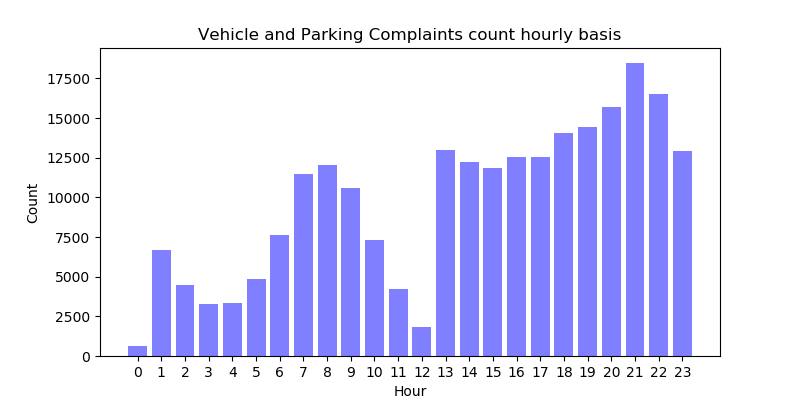
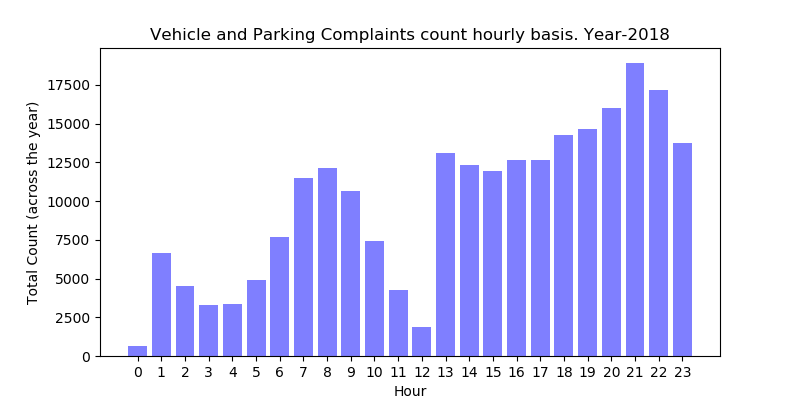
DateFormat Update with new results

diff --git a/311_Service_Request_Analysis/src/StasticalAnalysis/Analysis.py b/311_Service_Request_Analysis/src/StasticalAnalysis/Analysis.py
@@ -12,6 +12,7 @@ def complaint_type_analysis(complaint_type_df):
 def monthly_hourly_analysis(df_with_month_hour):
     # Insight 2 : Daily, Hourly, Monthly Analysis
     df_with_month_hour.cache()
+    creation_year = df_with_month_hour.select("Created_Date").take(1)[0].__getitem__("Created_Date")[6:10]
     df_with_month_hour = df_with_month_hour.withColumn("Creation_Hour",
                                                        df_with_month_hour["Creation_Hour"].cast(IntegerType()))
     df_with_month_hour = df_with_month_hour.withColumn("Creation_Month",
@@ -27,35 +28,37 @@ def monthly_hourly_analysis(df_with_month_hour):
 
     # Hourly
     utilFor311.prepare_plot(df_house_hold_cleaning_issues, 'Creation_Hour', 'count',
-                            "Cleaning & Household Complaints count hourly basis",
-                            "Hour", "Count", 1, range(0, 24, 1))
-    utilFor311.prepare_plot(df_noise_issues, 'Creation_Hour', 'count', "Noise Complaints count hourly basis", "Hour",
-                            "Count", 2,
-                            range(0, 24, 1))
+                            "Cleaning & Household Complaints count hourly basis. Year-" + str(creation_year),
+                            "Hour", 'Total Count (across the year)', 1, range(0, 24, 1))
+    utilFor311.prepare_plot(df_noise_issues, 'Creation_Hour', 'count',
+                            "Noise Complaints count hourly basis. Year-" + str(creation_year), "Hour",
+                            'Total Count (across the year)', 2, range(0, 24, 1))
     utilFor311.prepare_plot(df_vehicles_and_parking_issues, 'Creation_Hour', 'count',
-                            "Vehicle and Parking Complaints count hourly basis",
-                            "Hour", "Count", 3, range(0, 24, 1))
+                            "Vehicle and Parking Complaints count hourly basis. Year-" + str(creation_year),
+                            "Hour", 'Total Count (across the year)', 3, range(0, 24, 1))
     # Daily
     utilFor311.prepare_plot(df_house_hold_cleaning_issues, 'Creation_Day', 'count',
-                            "Cleaning & Household Complaints count daily basis", "Day", "Count", 4, range(1, 32, 1))
-    utilFor311.prepare_plot(df_noise_issues, 'Creation_Day', 'count', "Noise Complaints count daily basis", "Day",
-                            "Count", 5,
+                            "Cleaning & Household Complaints count daily basis. Year-" + str(creation_year), "Day",
+                            'Total Count (across the year)', 4, range(1, 32, 1))
+    utilFor311.prepare_plot(df_noise_issues, 'Creation_Day', 'count',
+                            "Noise Complaints count daily basis", "Day",
+                            'Total Count (across the year)', 5,
                             range(1, 32, 1))
     utilFor311.prepare_plot(df_vehicles_and_parking_issues, 'Creation_Day', 'count',
-                            "Vehicle and Parking Complaints count daily basis", "Day", "Count", 6, range(1, 32, 1))
+                            "Vehicle and Parking Complaints count daily basis. Year-" + str(creation_year), "Day",
+                            'Total Count (across the year)', 6, range(1, 32, 1))
 
     # Monthly
     months = ('Jan', 'Feb', 'Mar', 'Apr', 'May', 'Jun', 'Jul', 'Aug', 'Sep', 'Oct', 'Nov', 'Dec')
     utilFor311.prepare_plot(df_house_hold_cleaning_issues, 'Creation_Month', 'count',
-                            "Cleaning & Household Complaints count monthly basis",
-                            "Month", "Count", 7, range(1, 13, 1), months)
-    utilFor311.prepare_plot(df_noise_issues, 'Creation_Month', 'count', "Noise Complaints count monthly basis", "Month",
-                            "Count",
-                            8,
-                            range(1, 13, 1), months)
+                            "Cleaning & Household Complaints count monthly basis. Year-" + str(creation_year),
+                            "Month", 'Total Count (across the year)', 7, range(1, 13, 1), months)
+    utilFor311.prepare_plot(df_noise_issues, 'Creation_Month', 'count',
+                            "Noise Complaints count monthly basis. Year-" + str(creation_year), "Month",
+                            'Total Count (across the year)', 8, range(1, 13, 1), months)
     utilFor311.prepare_plot(df_vehicles_and_parking_issues, 'Creation_Month', 'count',
-                            "Vehicle and Parking Complaints count monthly basis",
-                            "Month", "Count", 9, range(1, 13, 1), months)
+                            "Vehicle and Parking Complaints count monthly basis. Year-" + str(creation_year),
+                            "Month", 'Total Count (across the year)', 9, range(1, 13, 1), months)
 
 
 def resolution_time_analysis():

diff --git a/311_Service_Request_Analysis/src/data_cleaning/DataCleaner.py b/311_Service_Request_Analysis/src/data_cleaning/DataCleaner.py
@@ -75,15 +75,15 @@ def format_zip_code(df_311):
 
 
 def calculate_time_to_resolve_in_seconds(df_311):
-    time_fmt = "dd/MM/yyyy HH:mm:ss"
-    time_fmt2 = "MM/dd/yyyy HH:mm:ss"
-    timestamp_format_col = when(to_timestamp(df_311.Closed_Date, time_fmt).isNull(),
+    time_fmt1 = "MM/dd/yyyy HH:mm:ss"
+    time_fmt2 = "dd/MM/yyyy HH:mm:ss"
+    timestamp_format_col = when(to_timestamp(df_311.Closed_Date, time_fmt1).isNull(),
                                 unix_timestamp('Closed_Date', format=time_fmt2)).otherwise(
-        unix_timestamp('Closed_Date', format=time_fmt))
+        unix_timestamp('Closed_Date', format=time_fmt1))
     df_311 = df_311.withColumn("Closing_timestamp", timestamp_format_col)
-    timestamp_format_col = when(to_timestamp(df_311.Created_Date, time_fmt).isNull(),
+    timestamp_format_col = when(to_timestamp(df_311.Created_Date, time_fmt1).isNull(),
                                 unix_timestamp('Created_Date', format=time_fmt2)).otherwise(
-        unix_timestamp('Created_Date', format=time_fmt))
+        unix_timestamp('Created_Date', format=time_fmt1))
     df_311 = df_311.withColumn("Creation_timestamp", timestamp_format_col)
     df_311 = df_311.withColumn("time_to_resolve_in_hrs", (col('Closing_timestamp') - col('Creation_timestamp')) / lit(
         3600))
@@ -91,25 +91,25 @@ def calculate_time_to_resolve_in_seconds(df_311):
 
 
 def create_separate_day_month_year_col(df_311):
-    time_fmt = "dd/MM/yyyy HH:mm:ss"
+    time_fmt = "MM/dd/yyyy HH:mm:ss"
 
     change_format_month = when(to_timestamp(df_311.Closed_Date, time_fmt).isNull(),
-                               substring('Closed_Date', 1, 2).cast(IntegerType())).otherwise(
-        substring('Closed_Date', 4, 2).cast(IntegerType()))
+                               substring('Closed_Date', 4, 2).cast(IntegerType())).otherwise(
+        substring('Closed_Date', 1, 2).cast(IntegerType()))
     df_with_month = df_311.withColumn('Closing_Month', change_format_month)
 
     change_format_month = when(to_timestamp(df_311.Created_Date, time_fmt).isNull(),
-                               substring('Created_Date', 1, 2).cast(IntegerType())).otherwise(
-        substring('Created_Date', 4, 2).cast(IntegerType()))
+                               substring('Created_Date', 4, 2).cast(IntegerType())).otherwise(
+        substring('Created_Date', 1, 2).cast(IntegerType()))
     df_with_month = df_with_month.withColumn('Creation_Month', change_format_month)
 
     change_format_day = when(to_timestamp(df_311.Closed_Date, time_fmt).isNull(),
-                             substring('Closed_Date', 4, 2).cast(IntegerType())).otherwise(
-        substring('Closed_Date', 1, 2).cast(IntegerType()))
+                             substring('Closed_Date', 1, 2).cast(IntegerType())).otherwise(
+        substring('Closed_Date', 4, 2).cast(IntegerType()))
     df_with_day = df_with_month.withColumn('Closing_Day', change_format_day)
     change_format_day = when(to_timestamp(df_311.Created_Date, time_fmt).isNull(),
-                             substring('Created_Date', 4, 2).cast(IntegerType())).otherwise(
-        substring('Created_Date', 1, 2).cast(IntegerType()))
+                             substring('Created_Date', 1, 2).cast(IntegerType())).otherwise(
+        substring('Created_Date', 4, 2).cast(IntegerType()))
     df_with_day = df_with_day.withColumn('Creation_Day', change_format_day)
 
     df_with_time = df_with_day.withColumn('Creation_Time', substring('Created_Date', 12, 11)).withColumn(

diff --git a/311_Service_Request_Analysis/src/StasticalAnalysis/Clustering.py b/311_Service_Request_Analysis/src/StasticalAnalysis/Clustering.py
@@ -102,8 +102,12 @@ def save_clustering_results(zip_code_clusters):
     op_string = ""
     for entry in zip_code_clusters:
         cluster = entry.__getitem__('Cluster')
-        zip_codes = entry.__getitem__('Zip_Codes')
-        op_string = op_string + 'Zip Codes in Cluster: ' + str(cluster) + os.linesep + str(zip_codes)[1:-1] + os.linesep
+        zip_codes_list = entry.__getitem__('Zip_Codes')
+        zip_codes = ""
+        for zip_code in zip_codes_list:
+            if len(str(zip_code).strip()) == 7:
+                zip_codes = zip_codes + str(zip_code)[0:5] + ', '
+        op_string = op_string + 'Zip Codes in Cluster: ' + str(cluster) + os.linesep + zip_codes[0:-2] + os.linesep
     filename = Constants.RESULTS_FOLDER_ANALYSIS_CLUSTERING + "ClusteringResults.txt"
     text_file = open(filename, "w")
     text_file.write(op_string)
